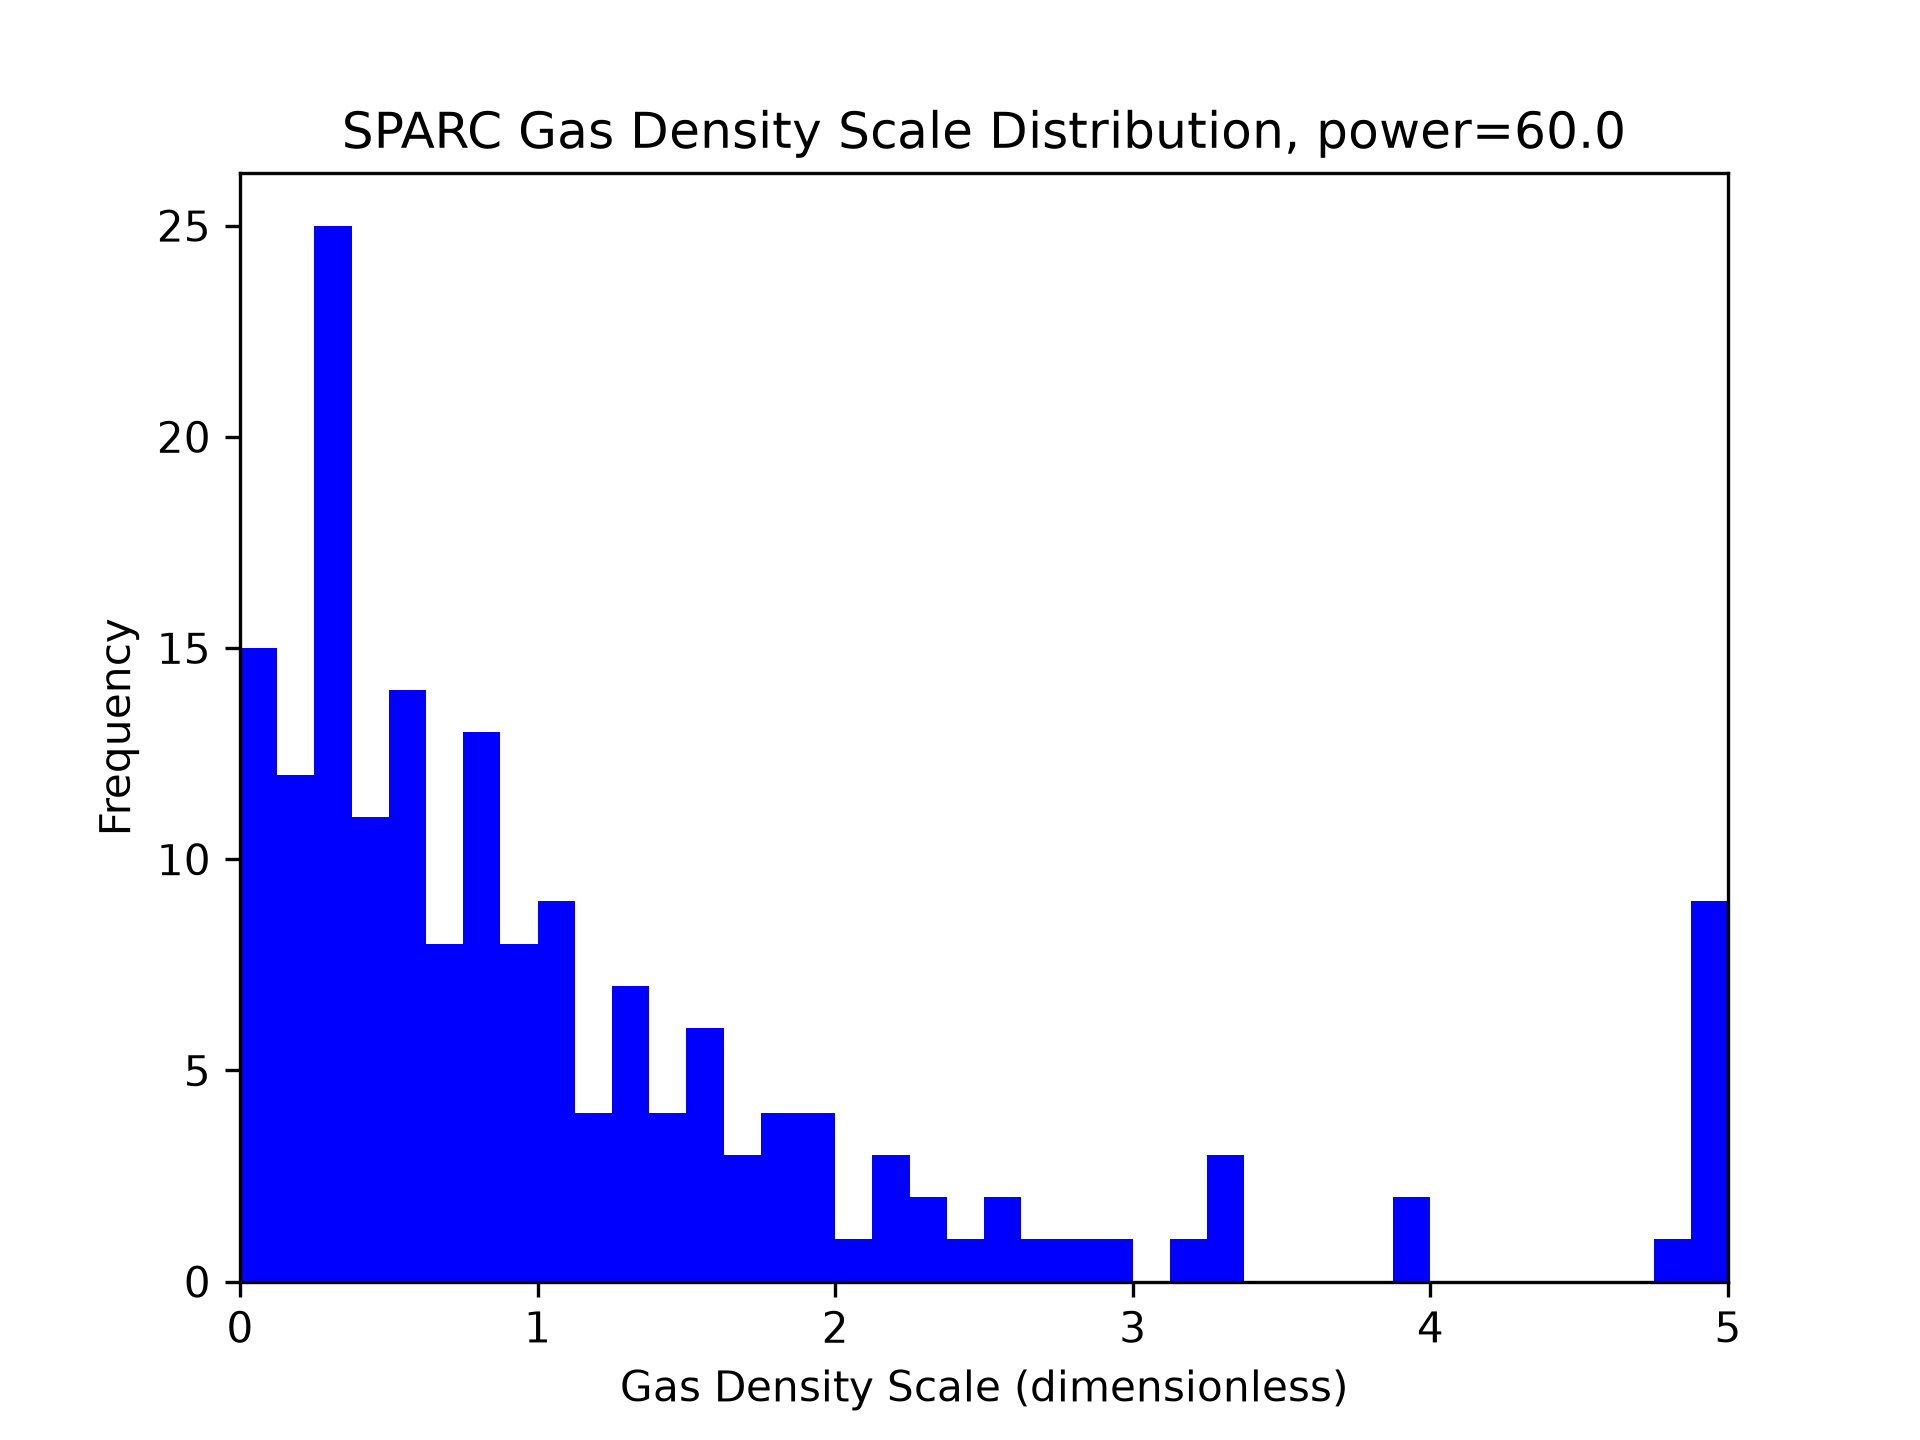
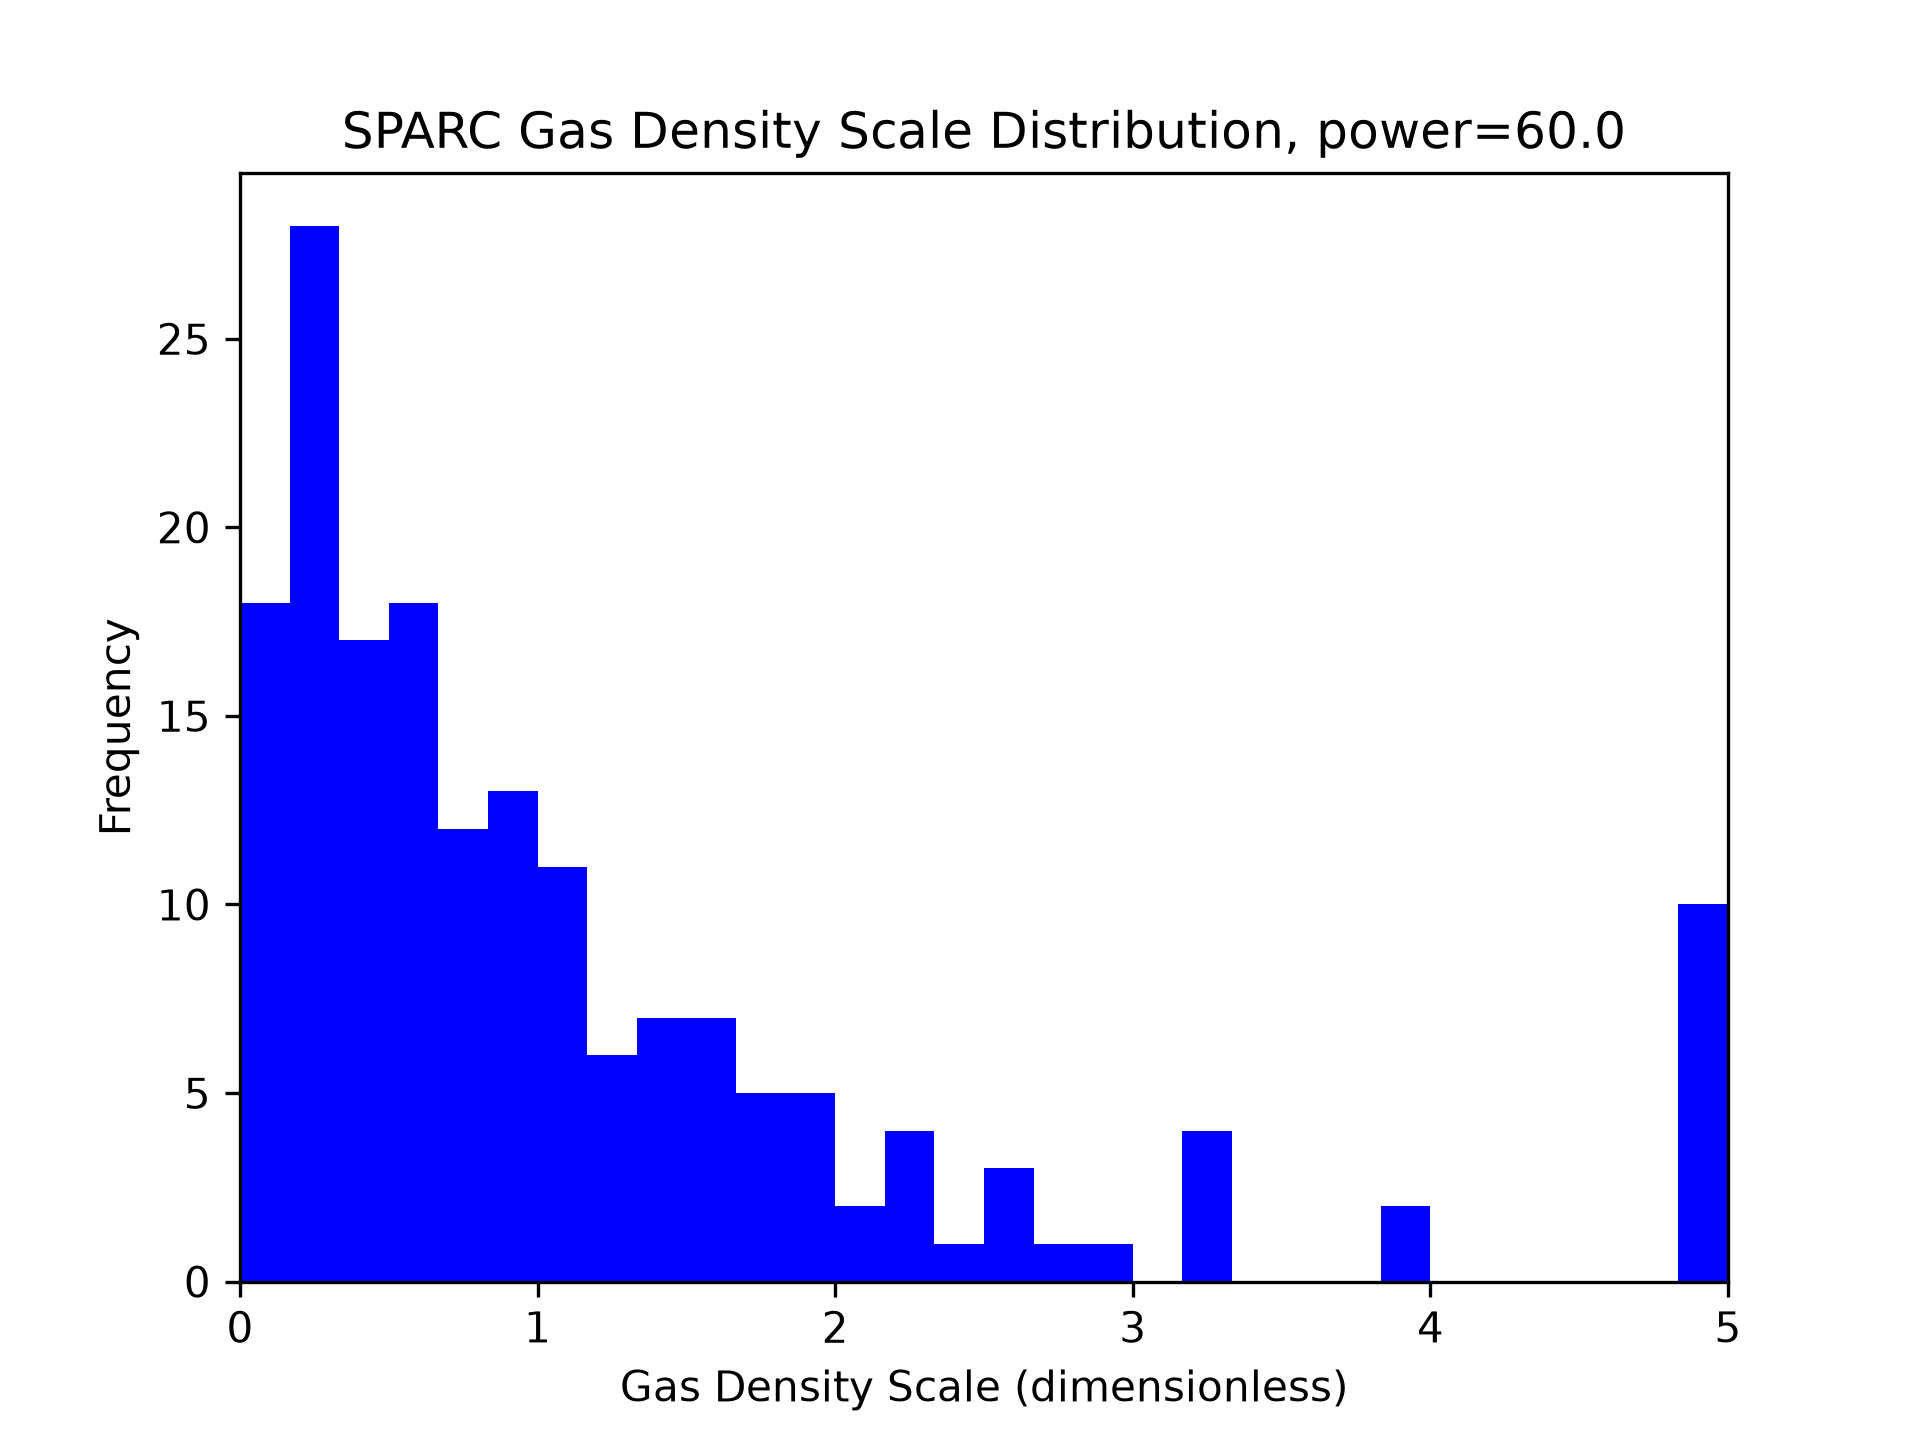
looked at making max gas scale to 10 - did not help much

diff --git a/sparc/sparc_dm.py b/sparc/sparc_dm.py
@@ -21,8 +21,9 @@ REJECT_LOW_Q_AND_LOW_INCL = False # does not make much of a difference
 ADD_EXTRA_GALAXIES = False # i added a galaxy for fun. (Malin1) 
 
 # fit control. I assume galaxies always have at least DENSITY_THRESHOLD in baryons/cm^3
-DENSITY_THRESHOLD=0.0
-SCALE_GAS_EACH_GALAXY = True # set to true to scale gas density each galaxy
+DENSITY_THRESHOLD=0.00
+SCALE_GAS_EACH_GALAXY = False # set to true to scale gas density each galaxy
+MAX_GAS_SCALE = 5.0
 
 #reads the SPARC asci i data as from the web site. 
 def read_ascii(data_file):
@@ -350,7 +351,7 @@ def best_fit_scale_gas_each_galaxy(galaxies, the_power):
         # optimize each galaxy, minimize fit_params['total_linear_error'] for each galaxy 
         # by varying gas_density_scale 
         numSteps = 100
-        step = 5.0/numSteps
+        step = MAX_GAS_SCALE/numSteps
         best_linear_error = 1e99
         best_gas_density_scale = 1.0
         for count in range(numSteps):
@@ -636,7 +637,7 @@ def make_gas_density_scale_plot(galaxies, power, file_name_part):
         
     # now make a histogram of the gas density scales
     fig, ax = plt.subplots()
-    bins = np.linspace(0, 5, 41)  # 20 linear bins from 0 to 5
+    bins = np.linspace(0, MAX_GAS_SCALE, 31)  # 20 linear bins from 0 to 5
     ax.hist(gas_scale, bins=bins, color='blue')
     ax.set_xlim(0, 5)
     ax.set_xlabel("Gas Density Scale (dimensionless)")
